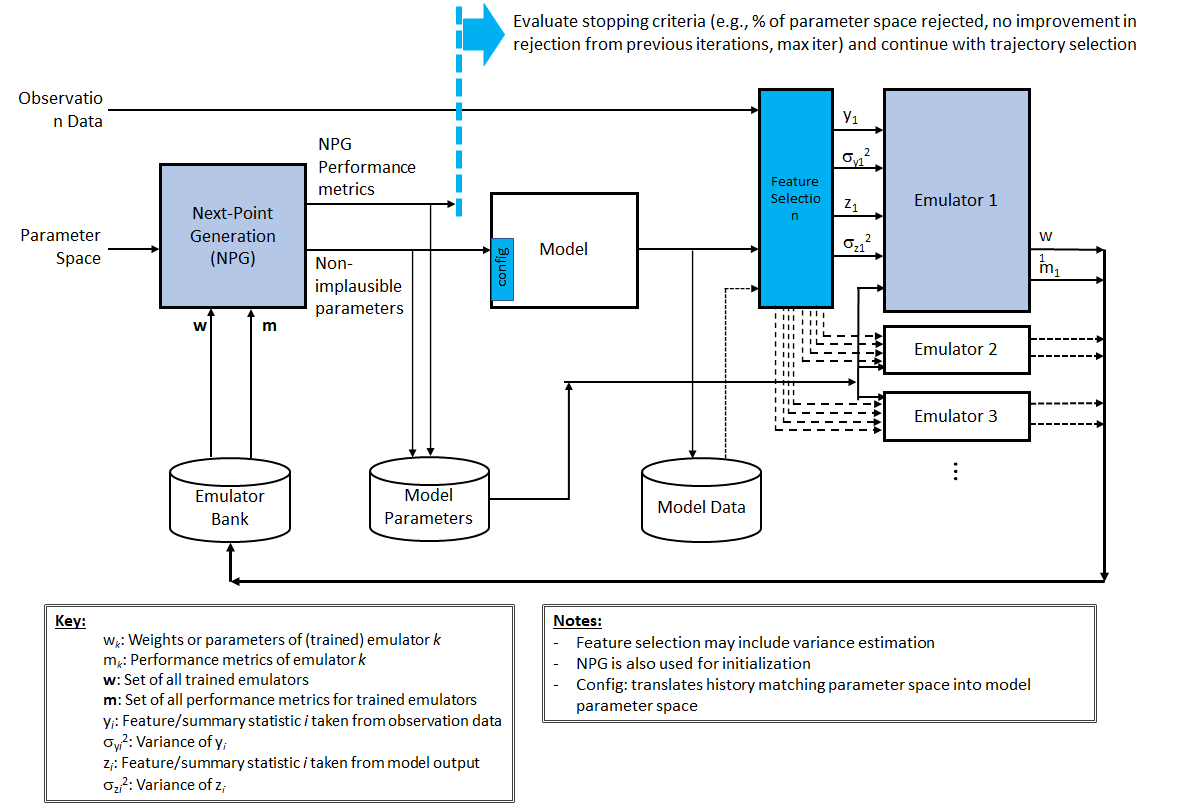
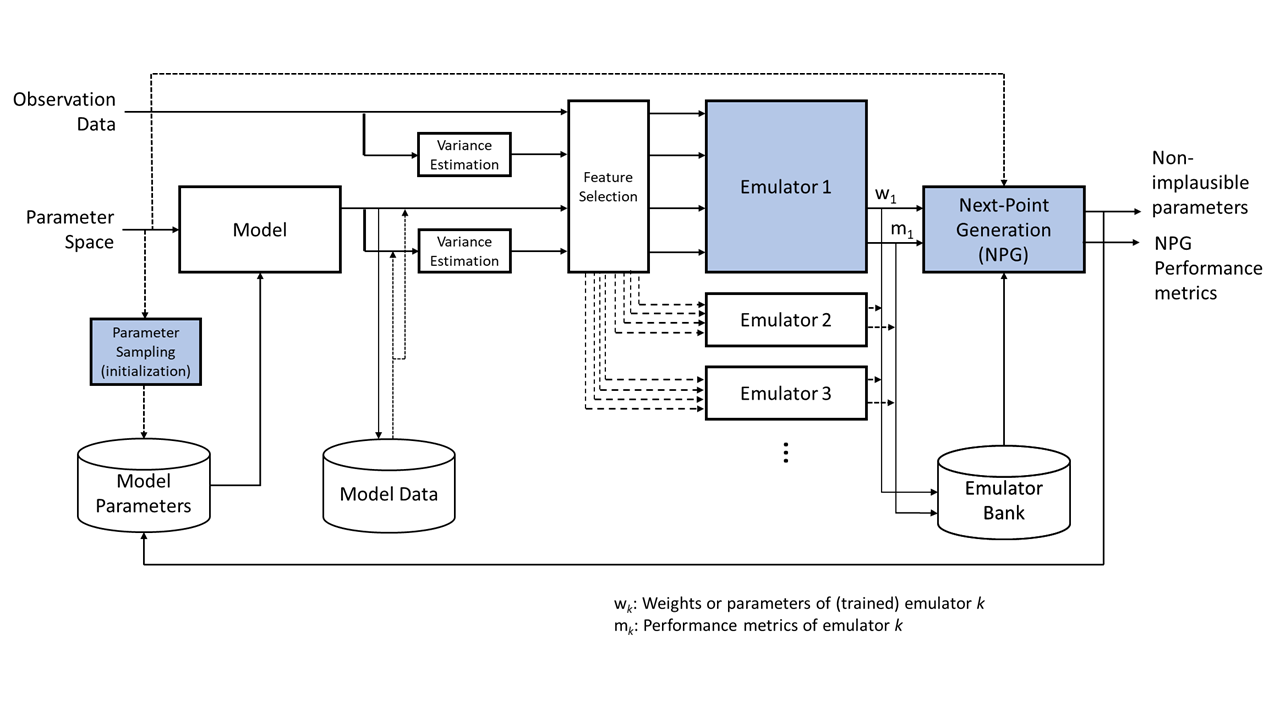
Updates to architecture document

Changed region(s): [[0.0, 0.0, 0.9933, 1.0]]

diff --git a/architecture.md b/architecture.md
@@ -14,8 +14,11 @@ Given some _observational data_, a _model_ (AKA simulator) which includes fixed 
 - Outputs: boolean go/no-go determination
 3. **Model Execution**: The model is run one or more times at each sample point in parameter space.<br>
 - Inputs: 1) the proposed set of test points in parameter space from the NPG step and 2) "opaque" model specific configuration<br>
-- Outputs: model specific, "opaque" to the HMP
-4. **Feature Selection/Emulator Generation**: One or more features (outputs) of the model, appropriate to the current iteration, are chosen and used to create emulators, informed by the feature selection and known model outputs, intended to predict model output at points in parameter space which have not been explicitly tested with the model.<br>
+- Outputs: rectangular dataframe with one column each for iteration, sample point parameter values (simulator inputs), and feature values (simulator outputs)
+4. **Feature Selection**: One or more features (outputs) of the model, appropriate to the current iteration, are chosen to be used for generating new emulators.<br>
+- Inputs: 1) current iteration and 2) model data for tested points in parameter space<br>
+- Outputs: one or more features to be used for generating new emulators
+5. **Emulator Generation**:  Create emulators, informed by the feature selection and known model outputs, intended to predict model output at points in parameter space which have not been explicitly tested with the model.<br>
 - Inputs: 1) Observation data and 2) model data for tested points in parameter space<br>
 - Outputs: one or more emulators
 
@@ -68,6 +71,8 @@ emulator_bank = {}      # Dictionary is a placeholder, actual datastructure TBD
 
 for iteration in range(config.max_iterations):
 
+    start_iteration_callback(iteration)
+
     # test_points is a list of points in parameter space where a 
     # sample point is a dictionary of parameter:value pairs, one for each parameter in the param_space dictionary
     metrics, sample_points = generate_sample_points(iteration, param_space, emulator_bank, config)
@@ -82,11 +87,16 @@ for iteration in range(config.max_iterations):
     # add additional results to model results database
     merge_results(results, model_results_db, config)
 
+    # determine features for emulator generation
+    selected_features = select_features(iteration, model_results_db, config)
+
     # With full set of results, update emulator bank
-    emulators = generate_emulators(iteration, model_results_db, emulator_bank, config)
+    emulators = generate_emulators(iteration, selected_features, model_results_db, emulator_bank, config)
 
     # add new emulators to emulator bank
     deposit_emulators(emulators, emulator_bank, config)
+
+    end_iteration_callback(iteration)
 
     return
 
@@ -102,10 +112,10 @@ def run_simulators(iteration, test_points, config):
 
     return results
 
-def generate_emulators(iteration, model_results_db, emulator_bank, config):
+def generate_emulators(iteration, selected_features, model_results_db, emulator_bank, config):
 
     emulators = []
-    for feature in select_features(iteration, model_results_db, config):
+    for feature in selected_features:
         emulators.append( generate_emulator(feature) )
 
     return emulators
